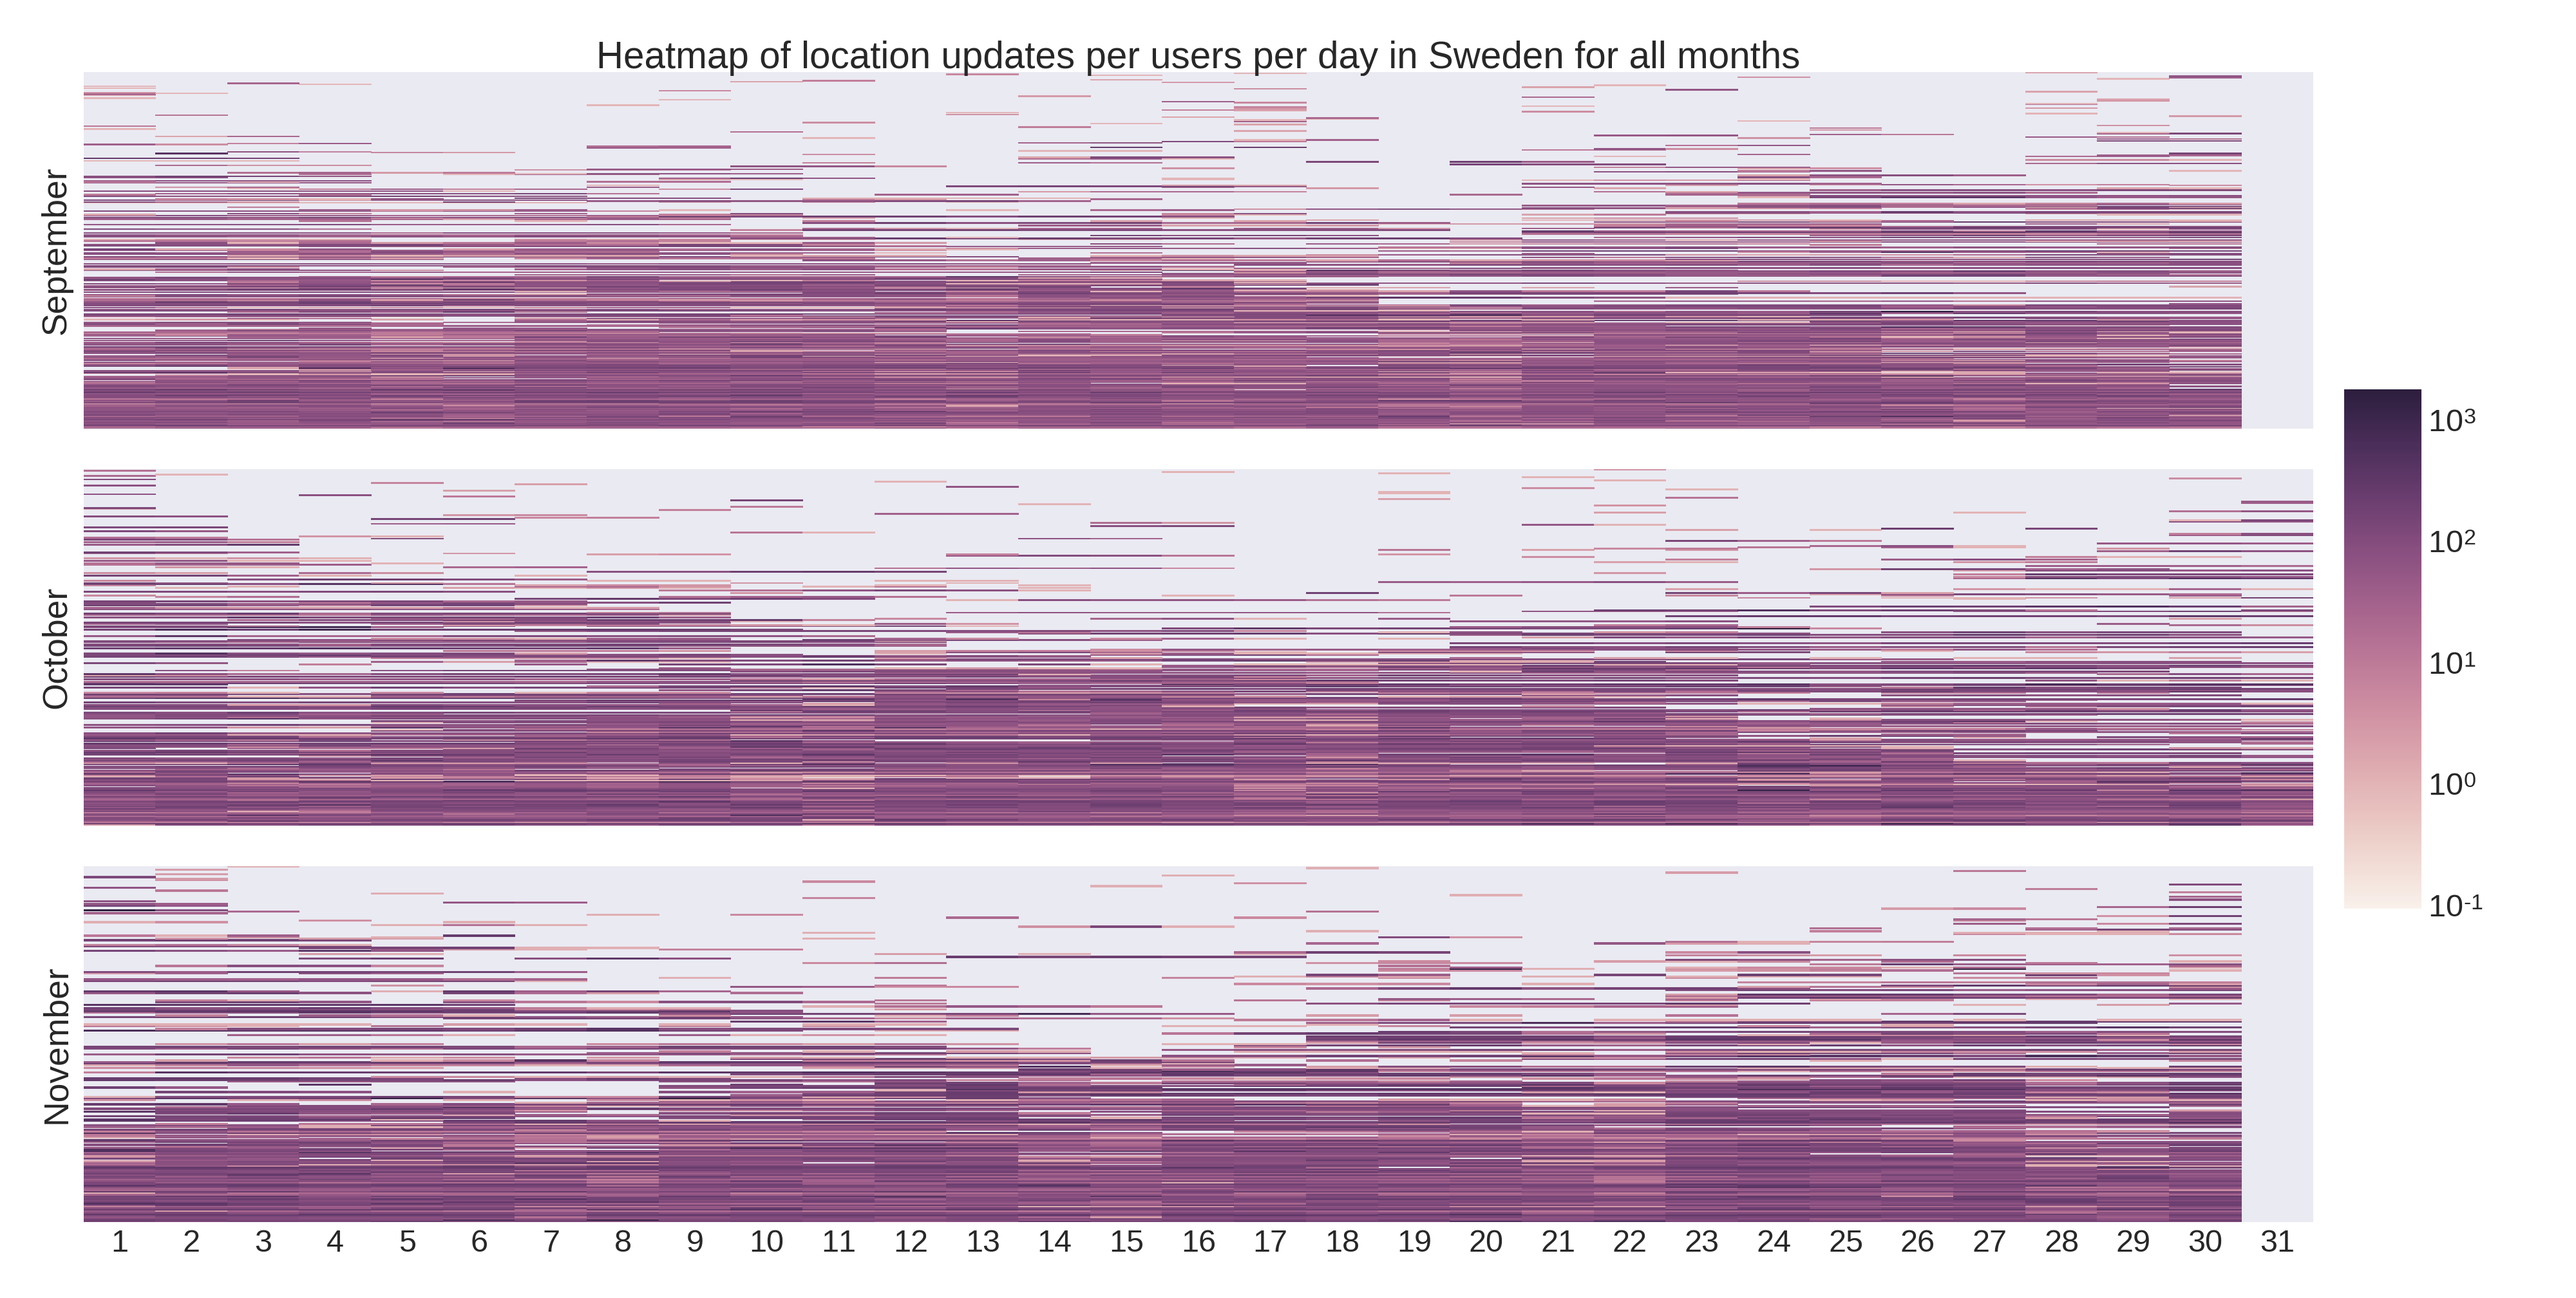
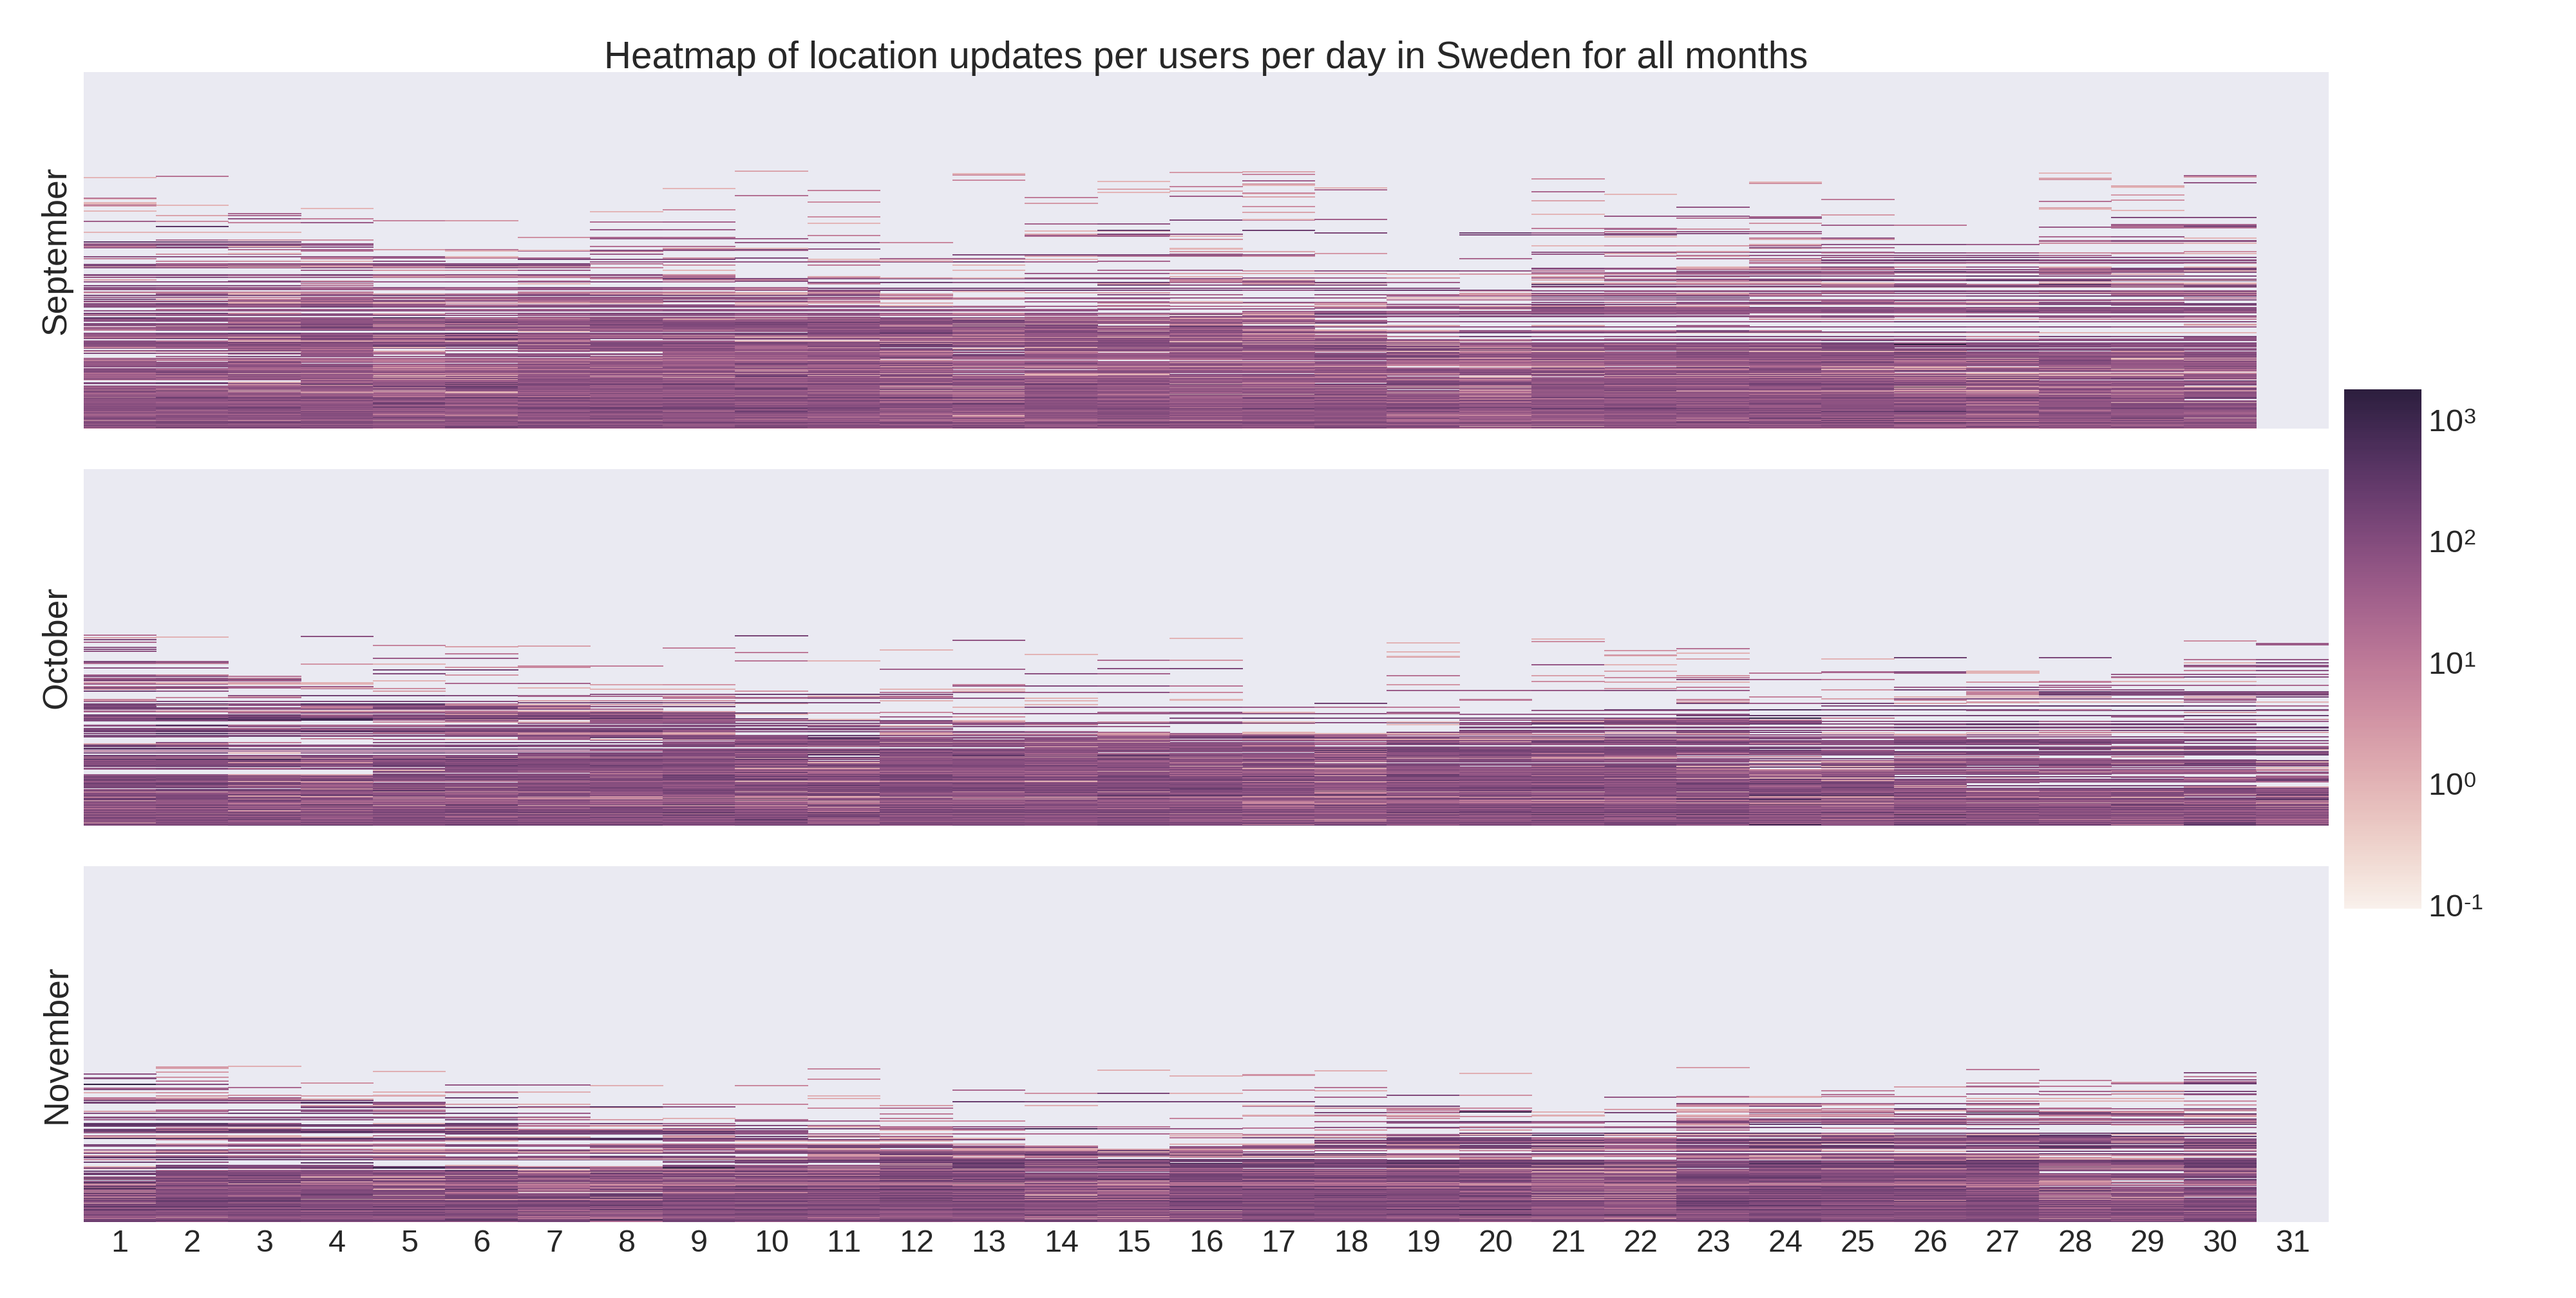
Dataset updated and combined figures updated

diff --git a/report/dataset.tex b/report/dataset.tex
@@ -297,16 +297,16 @@ På de to figurer ovenfor, kan vi få en fornemmelse af gennemsnitlig updates fo
     \vspace{-12pt}
     \label{fig:heatmap_japan_combined}
 \end{figure}
-Figure \ref{fig:heatmap_japan_combined} viser antal updates for hver bruger, for hver dag i hver af de tre måneder. Hver række i hver af de tre heatmaps (ét for hver måned), repræsenterer en bruger. Der er altså \numberUsersJapan{} antal rækker i hvert heatmap \textcolor{red}{nej de er sorteret fra. Skal de det?}. Hvert heatmap er sorteret så brugeren med updates i flest dage, ligger nederst. Det gør at brugerene ikke nødvendigvis er repræsenteret i samme række over alle tre heatmaps.
-Ved at plotte dage og månederne på denne måde, kan det være nemmere at sammenligne dagene for hver måned med hinanden. 
+Figure \ref{fig:heatmap_japan_combined} viser antal updates for hver bruger (y-axis), for hver dag i hver af de tre måneder (x-axis). Hver række i hver af de tre heatmaps (ét for hver måned), repræsenterer en bruger. Der er altså \numberUsersJapan{} antal rækker i hvert heatmap. Hvert heatmap er sorteret så brugeren med updates i flest dage, ligger nederst. Det gør at brugerene ikke nødvendigvis er repræsenteret i samme række over alle tre heatmaps. Vi kan dermed også se, at der er mange brugere (omkring halvdelen) som ikke har nogle opdateringer i nogle af dagene for hver af de tre måneder. Dette kan godt passe, ud fra hvad vi ved fra Figure \ref{fig:country_cdf} og at disse brugere som sagt ikke nødvendigvis er de samme henover månederne, 
+Vi har plottet dage og månederne på denne måde, da det giver os muligheden for nemmere at sammenligne dagene for hver måned med hinanden. 
 
 Vi kan se der er relativt få brugere som har updates i alle dage i en måned. Dette alene er bekymrende og tegner ikke godt for vores projekt, og når vi i dette plot ikke kan være sikker på det er samme bruger der har updates i alle dage for alle tre måneder, så er det endnu mere bekymrende. 
 
 Igen virker det som at september har flere brugere, som har opdateringer i relativt mange dage, i forhold til de andre måneder.
 
-Hvis vi kigger på oktober, kan vi se nogle par af dage som danner lyse lodrette striber, hvilket betyder lavere antal updates. Disse foregår d. 3 og 4, 10 og 11, 17 og 18 og til sidst 24 og 25. Disse par dukker op med en uges interval, hvor d. 3 er en lørdag og d. 4 er en søndag. Dvs. de andre par også er lørdage og søndage. Dette mønster gentager sig i november, hvor man rigtig kan se det fra d. 7 og 8. September er ikke så tydelig, men det er der. Dette er meget interessant, da det kan indikere at lørdage og søndage ikke er så gode at gøre brug af. 
+Hvis vi kigger på oktober, kan vi se nogle par af dage som danner lyse lodrette striber i forhold til de andre dage. Dette betyder lavere antal updates. Disse foregår d. 3 og 4, 10 og 11, 17 og 18 og til sidst 24 og 25. Disse par dukker op med en uges interval, hvor d. 3 er en lørdag og d. 4 er en søndag. Dvs. de andre par også er lørdage og søndage. Dette mønster gentager sig i november, hvor man rigtig kan se det fra d. 7 og 8. September er ikke så tydelig, men det er der. Dette er meget interessant, da det kan indikere at lørdage og søndage ikke er så gode at gøre brug af. 
 
-
+Der er ellers ikke nogle dage eller perioder af dage, som skiller sig ud af mængden. Grunden til af d. 31 i september og november er tom er, at der ikke er en dato der hedder d. 31 i disse to måneder, mens der er det for oktober. Det er derfor meningen at den dato for september og november skal være tom. 
 
 \begin{figure}[H]
     \hspace*{-1.5cm}
@@ -315,15 +315,25 @@ Hvis vi kigger på oktober, kan vi se nogle par af dage som danner lyse lodrette
     \caption{Heat map for mean location updates over the 3 month period in Sweden. x-axis is days and y-axis is users. The scale is logarithmic}
     \label{fig:heatmap_sweden_combined}
 \end{figure}
-Figure \ref{fig:heatmap_sweden_combined} viser det samme blot for Sverige. Igen kan vi se i alle tre måneder, at lørdage og søndage skiller sig ud af mængden. 
+Figure \ref{fig:heatmap_sweden_combined} viser det samme blot for Sverige. Igen kan vi se i alle tre måneder, at lørdage og søndage skiller sig ud af mængden ved at have færrer opdateringer.  Vi kan også se at specielt september har færrer brugere som ikke har nogen opdateringer gennem måneden end Japan, hvor oktober og november ligger mere på niveau med Japan. 
+
+Sverige har også flere brugere med opdateringer for hver dag, end Japan. 
+
+Vi kan vha. Figure \ref{fig:heatmap_japan_combined} og Figure \ref{fig:heatmap_sweden_combined} få en fornemmelse for, hvilke dage der er bedre end andre, som f.eks. lørdage og søndage ikke virker som gode dage, pga. færrer opdateringer. 
+
+Der er ellers ikke nogle dage eller perioder af dage, som skiller sig ud af mængden. Ligesom i Japan, er d. 31 i september og november tom, da der ikke er en dato der hedder d. 31 i disse to måneder. 
+
+En ting er at kunne se hvordan opdateringer fordeler sig pr. dag pr. bruger, men vi ved ikke om alle opdateringerne for en dag, foregår i løbet af en time eller om de er fordelt henover dagen. Det ville være bedst at kunne finde brugere som har opdateringer på flere tidspunkter i løbet er f.eks. en måned, da der er bedre sandsynlighed for, at disse brugere har co-occurences. 
+
+
 \begin{figure}[H]
-    \hspace*{-1.5cm}
+    \hspace*{-2.0cm}
     \centering
     \includegraphics[scale=0.16]{users_by_criteria.png}
-    \caption{}
+    \caption{Plot over number of users which have location updates in certain percentage unique timebins for the given period}
     \label{fig:users_by_criteria}
 \end{figure}
-
+Figure \ref{fig:users_by_criteria} viser, hvor mange brugere der har lokations opdateringer i en vis procentdel af unikke timebins for en givet periode. F.eks. kan vi se, at der er ca 85 brugere som har opdateringer i 20\% af de mulige timebins i september i Sverige. 
 \newpage
 Our work will focus on the location updates from Japan. There is 332 users in Japan for which we have location updates.
 When training our classifier we divided the dataset into three parts where each corresponded to a month.
@@ -338,7 +348,7 @@ Over disse 3 måneder blev der indsamlet 2.665.893 geolokation lokations opdater
 When we got the dataset it was stored in three folders, one for each month (9, 10, 11) and within each folder were multiple chunks of data in Apache Avro format\cite{apacheavro}, which we learned is a data serialization framework for Hadoop similar to the JSON format. The chunks were contained in folders bearing the number for each month, however we learned they were sorted by when the server had received the data packet containing the location from the phone and not when the phone had registered the location. The app is storing the collected data on the users phone for a maximum of one month, if the data is not uploaded within a month it is discarded. This approach to data collection means the month folders can contain location updates from the previous month as well.
 
 
-\subsection{Production data}
+\section{Production data}
 
 
 \section{Summary}
